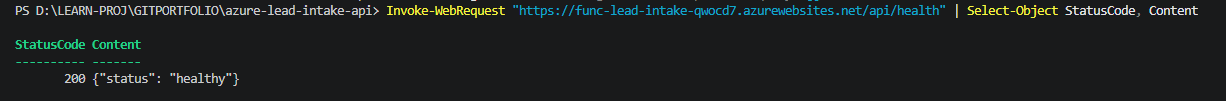
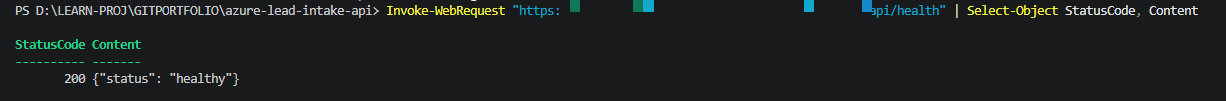
chore: finalize Azure lead intake API portfolio

Changed region(s): [[0.4649, 0.0, 0.7129, 0.1485]]

diff --git a/app/keyvault_secrets.py b/app/keyvault_secrets.py
@@ -7,10 +7,10 @@ from azure.keyvault.secrets import SecretClient
 
 @lru_cache(maxsize=1)
 def get_secret_client() -> SecretClient:
-    vault_url = os.getenv("KEY_VAULT_URL")
+    vault_url = os.getenv("KEY_VAULT_URI")
 
     if not vault_url:
-        raise RuntimeError("KEY_VAULT_URL is not configured.")
+        raise RuntimeError("KEY_VAULT_URI is not configured.")
 
     client_id = os.getenv("AZURE_CLIENT_ID")
 

diff --git a/README.md b/README.md
@@ -1,0 +1,339 @@
+# Azure Lead-Intake API
+
+A small serverless API on Azure that accepts sales leads from authenticated callers, stores them, and forwards them to HubSpot and Slack. The application infrastructure is defined in Terraform and checked by GitHub Actions.
+
+[![CI](https://github.com/tvero1011/azure-lead-intake-api/actions/workflows/ci.yml/badge.svg)](https://github.com/tvero1011/azure-lead-intake-api/actions/workflows/ci.yml)
+[![CodeQL](https://github.com/tvero1011/azure-lead-intake-api/actions/workflows/codeql.yml/badge.svg)](https://github.com/tvero1011/azure-lead-intake-api/actions/workflows/codeql.yml)
+
+> **Status:** portfolio project built to learn and demonstrate Azure security and DevOps practices. It uses sample data only and is not a production system. Application resources are destroyed between sessions to keep cost near $0.
+
+**Stack:** Python 3.11 · Azure Functions (Flex Consumption) · Table Storage · Key Vault · Entra ID · Application Insights · Terraform · GitHub Actions (OIDC) · Pydantic · pytest
+
+## Contents
+
+[What this project demonstrates](#what-this-project-demonstrates) ·
+[Architecture](#architecture) ·
+[API](#api) ·
+[Security design](#security-design) ·
+[Proof it works](#proof-it-works) ·
+[Infrastructure](#infrastructure-terraform) ·
+[CI/CD](#cicd) ·
+[Monitoring](#monitoring) ·
+[Evidence](#evidence) ·
+[Testing](#testing) ·
+[Cost](#cost) ·
+[Try it](#try-it) ·
+[Configuration](#configuration) ·
+[Deploy](#deploy) ·
+[Design decisions](#design-decisions) ·
+[Known limitations](#known-limitations-and-next-steps) ·
+[What I learned](#what-i-learned)
+
+## What this project demonstrates
+
+- **Identity-first security:** callers authenticate with Microsoft Entra ID, the Function reaches Azure services with a managed identity, and GitHub deploys with OIDC. No API keys, storage keys, or stored Azure passwords.
+- **Infrastructure as code:** Azure Functions (Flex Consumption), Storage, Key Vault, Application Insights, alerts, RBAC and policy guardrails, all in Terraform. A few pieces are manual on purpose (see [What is not in Terraform](#what-is-not-in-terraform)).
+- **CI/CD with guardrails:** pull requests never log in to Azure. Deployment is a manual workflow behind a protected `production` environment that needs a reviewer.
+- **Honest engineering:** a CodeQL finding was fixed rather than dismissed, and the known gaps are listed at the end of this README.
+
+## Architecture
+
+```mermaid
+flowchart TD
+    Client["API client"] -->|"1. request token"| Entra["Microsoft Entra ID"]
+    Entra -->|"2. token with Lead.Write role"| Client
+    Client -->|"3. POST /api/leads + Bearer token"| Func["Azure Function<br/>Easy Auth + role check"]
+    Func --> Val["Pydantic validation"]
+    Val --> Table["Azure Table Storage"]
+    Func -->|"managed identity"| KV["Key Vault"]
+    Func -->|"token from Key Vault"| HubSpot["HubSpot"]
+    Func -->|"webhook from Key Vault"| Slack["Slack"]
+    Func --> AI["Application Insights"]
+    GH["GitHub Actions"] -->|"OIDC, no secret"| Azure["Azure + Terraform"]
+```
+
+### Request flow
+
+1. The caller gets an access token from Entra ID (client credentials flow) for the API.
+2. The caller sends `POST /api/leads` with the token.
+3. **Easy Auth** validates the token. A missing or invalid token gets `401` before any code runs.
+4. The application checks that the token carries the `Lead.Write` role. Without it, `403`.
+5. Pydantic validates the payload. Bad input gets `422` with a field-level message.
+6. The lead is saved to Table Storage. If saving fails, the API returns `503` and does not call any external service.
+7. For a **new** lead, a Slack notification is sent. HubSpot gets an upsert by email.
+8. The sync result is recorded on the lead as `crm_status` (`pending`, `synced` or `failed`). A downstream failure never loses the lead.
+
+## API
+
+| Method | Path | Auth | Purpose |
+|---|---|---|---|
+| GET | `/api/health` | None (excluded from Easy Auth) | Health check |
+| POST | `/api/leads` | Entra token with `Lead.Write` role | Submit a lead |
+
+Example request body:
+
+```json
+{
+  "name": "Jane Smith",
+  "email": "jane@example.com",
+  "message": "Interested in your services."
+}
+```
+
+Validation rules: `name` 2 to 100 characters, `email` a valid address up to 254 characters (stored in lower case), `message` 5 to 2000 characters. Extra spaces are trimmed.
+
+| Status | Meaning | How it is verified |
+|---|---|---|
+| 200 | Health check OK, or lead accepted (`"status": "accepted"`) | Live, screenshots 04, 05, 14 |
+| 401 | Missing or invalid token | Live, screenshot 15 |
+| 403 | Valid token without the `Lead.Write` role | Automated tests (`tests/test_auth.py`) |
+| 422 | Invalid payload, for example missing email | Live, screenshot 17 |
+| 503 | Lead could not be saved | By design (see `app/function_app.py`), not covered by a test yet |
+
+Validation response for a missing email:
+
+```json
+{
+  "error": "Lead validation failed.",
+  "details": [{ "field": "email", "message": "Field required" }]
+}
+```
+
+Leads use `PartitionKey = leads` and `RowKey = email`, so sending the same email again updates the name and message instead of creating a duplicate. Saving does not reset `crm_status` to `pending`. After the update, the HubSpot sync for that request writes a fresh `crm_status` (`synced` or `failed`).
+
+## Security design
+
+| Control | How it is done |
+|---|---|
+| Caller authentication | Entra ID through App Service authentication (Easy Auth), unauthenticated requests get `401` |
+| Caller authorization | The API app defines a `Lead.Write` app role. The code checks the role claim and returns `403` without it |
+| No storage keys | Storage account has shared key access disabled. The Function uses its managed identity for Table and Blob access |
+| Secrets | HubSpot token and Slack webhook live in Key Vault (RBAC mode). They are set by hand with `az keyvault secret set`, never through Terraform, so they never enter state |
+| Least-privilege roles | The Function identity has Key Vault Secrets User, Storage Table Data Contributor, and narrowly scoped storage and monitoring roles |
+| Pipeline login | GitHub Actions uses OIDC with a federated credential tied to the `production` environment. No Azure password is stored in GitHub |
+| Pull requests | CI runs on pull requests but has no Azure login step and uses no deployment credentials |
+| Safe logging | Structured JSON logs with a correlation ID. Only the email *domain* is logged, never the full address or any secret |
+| Scanning | Gitleaks pre-commit hook (also run in CI), CodeQL, and Dependabot for Actions, pip and Terraform |
+| Guardrails | Azure Policy on the application resource group: allowed locations and a required `project` tag |
+
+## Proof it works
+
+A lead sent with an Entra token reaches HubSpot and Slack, and a request without a token is rejected. All 17 screenshots are listed in [Evidence](#evidence).
+
+<table>
+  <tr>
+    <td><img src="docs/proof/12-hubspot-lead-contact-synced.png" alt="HubSpot contact created from a lead" width="300"></td>
+    <td><img src="docs/proof/13-slack-new-lead-notification.png" alt="Slack notification for a new lead" width="300"></td>
+    <td><img src="docs/proof/15-unauthenticated-request-rejected.png" alt="Request without a token returns 401" width="300"></td>
+  </tr>
+  <tr>
+    <td align="center">HubSpot contact created</td>
+    <td align="center">Slack notification</td>
+    <td align="center">No token, HTTP 401</td>
+  </tr>
+</table>
+
+## Infrastructure (Terraform)
+
+There are two Terraform configurations so the state backend never depends on the resources it manages:
+
+| Folder | Purpose |
+|---|---|
+| `bootstrap/` | Resource groups and Azure Policy assignments (allowed locations, required tag) |
+| `infra/` | Application resources, using a remote `azurerm` backend with Entra ID authentication |
+
+The remote state storage account was created manually in the portal. I removed storage provisioning from the bootstrap on purpose so that no storage credentials pass through Terraform.
+
+Main resources in `infra/`:
+
+| Resource | Notes |
+|---|---|
+| Azure Functions, Flex Consumption (FC1) | Python 3.11, scale limited to 1 instance, no always-ready instances configured |
+| Storage account | Standard LRS, TLS 1.2, no public blobs, shared key access disabled, `Leads` table, private deployment container |
+| User-assigned managed identity | Used for storage, Key Vault and Application Insights access |
+| Key Vault | Standard tier, RBAC authorization, purge protection off so the environment can be destroyed and recreated |
+| Log Analytics + Application Insights | 30 day retention, telemetry sent with managed identity authentication |
+| Monitoring | Email action group, failed-requests metric alert, Activity Log alerts for Key Vault deletion and role assignment changes, and a simple portal dashboard (one text tile that points to the saved queries, no charts yet) |
+
+### What is not in Terraform
+
+These parts are manual on purpose or not automated yet:
+
+- the Terraform state storage account and its `tfstate` container
+- the Entra ID app registrations (API app, caller app, pipeline app) and the pipeline's role assignments
+- the Key Vault secrets (`hubspot-access-token`, `slack-webhook-url`)
+- the subscription budget
+- publishing the Function code
+
+## CI/CD
+
+| Workflow | Trigger | What it does |
+|---|---|---|
+| `ci.yml` | Push and pull request to `main` | Python tests, secret scanning (pre-commit with Gitleaks), `terraform fmt -check` and `validate` for both configurations with `-backend=false`. No Azure access |
+| `codeql.yml` | Push, pull request, weekly | CodeQL analysis for Python |
+| `deploy.yml` | Manual (`workflow_dispatch`) | Choose `verify`, `apply` or `destroy`. Logs in with OIDC and runs inside the `production` environment, which requires a reviewer. `apply` saves a plan file and applies that same plan |
+| `smoke-test.yml` | Daily and manual | Calls the health endpoint and checks for `"status": "healthy"` |
+
+Pull requests never receive Azure access. Only a manually started run that is approved on the `production` environment can change infrastructure. The Azure federated credential is tied to that environment, so no other workflow run can log in.
+
+## Monitoring
+
+Application Insights collects telemetry and Terraform defines the alerts and a simple dashboard. Four saved KQL queries are in `queries/`: `failed-requests`, `failed-dependencies`, `exceptions` and `request-performance`.
+
+The alerts are defined in code. I have not yet captured a test showing an alert email arriving, and there is no screenshot of the deployed alerts, action group or dashboard.
+
+## Evidence
+
+Screenshots are in [`docs/proof`](docs/proof). They come from a personal sandbox subscription with sample data. Environment-specific names, hostnames and personal details are blurred. Application resources get a random name suffix, so screenshots from different sessions show different hostnames.
+
+| # | What it shows |
+|---|---|
+| [01](docs/proof/01-terraform-bootstrap-resources.png) | Bootstrap resource group with the state storage account |
+| [02](docs/proof/02-azure-policy-governance.png) | Azure Policy compliance: allowed location and required tag are both compliant. The overall score is lower because of the subscription's default Defender for Cloud initiative, which is not part of this project |
+| [03](docs/proof/03-azure-infrastructure-deployed.png) | Deployed application resources, tagged |
+| [04](docs/proof/04-function-app-health-check.png) | Health check, HTTP 200 |
+| [05](docs/proof/05-entra-id-authenticated-lead-submission.png) | Lead accepted with an Entra token, HTTP 200 |
+| [06](docs/proof/06-azure-table-storage-lead-record.png) | Lead record in Table Storage |
+| [07](docs/proof/07-cost-management-budget.png) | $5 budget with an email alert at $1, spend $0.00 |
+| [08](docs/proof/08-github-actions-ci-passed.png) | CI passed: tests, secret scanning, Terraform validation |
+| [09](docs/proof/09-github-azure-oidc-deployment.png) | Deploy workflow (`verify` run) logging in to Azure with OIDC |
+| [10](docs/proof/10-github-production-environment.png) | `production` environment with required reviewer |
+| [11](docs/proof/11-codeql-sensitive-logging-alert-fixed.png) | CodeQL logging finding, marked fixed |
+| [12](docs/proof/12-hubspot-lead-contact-synced.png) | HubSpot contact created |
+| [13](docs/proof/13-slack-new-lead-notification.png) | Slack notification received |
+| [14](docs/proof/14-function-health-http-200.png) | Health endpoint returns `healthy` |
+| [15](docs/proof/15-unauthenticated-request-rejected.png) | Request without a token, HTTP 401 |
+| [16](docs/proof/16-azure-table-lead-synced.png) | Lead stored with `crm_status = synced` |
+| [17](docs/proof/17-api-validation-missing-email-422.png) | Missing email, HTTP 422 |
+
+## Testing
+
+There are 26 automated tests in `tests/`, run with `python -m pytest`:
+
+| File | Area |
+|---|---|
+| `test_auth.py` | Role and principal handling (401 and 403 paths) |
+| `test_function_app.py` | Request handling |
+| `test_integrations.py` | HubSpot and Slack behavior |
+| `test_models.py` | Payload validation and normalization |
+| `test_storage.py` | Table Storage create and update behavior |
+
+The tests use mocks, so they do not call Azure, HubSpot or Slack.
+
+## Cost
+
+- Flex Consumption with scale limited to one instance, Standard LRS storage and Standard Key Vault.
+- A subscription budget of $5 (created manually in the portal) with an email alert at 20% ($1) of actual spend. It sends alerts only and does not stop spending.
+- Resources carry a `project` tag so cost can be filtered in Cost Management.
+- Application resources are destroyed after testing sessions.
+
+## Try it
+
+**Run the tests locally**
+
+```bash
+python -m venv .venv
+# Windows: .venv\Scripts\Activate.ps1      macOS/Linux: source .venv/bin/activate
+pip install -r app/requirements.txt
+python -m pytest
+```
+
+**Call the deployed API** (use your own values, never commit them):
+
+```powershell
+$token = (Invoke-RestMethod -Method Post `
+  -Uri "https://login.microsoftonline.com/<TENANT_ID>/oauth2/v2.0/token" `
+  -Body @{
+    grant_type    = "client_credentials"
+    client_id     = "<CALLER_APP_CLIENT_ID>"
+    client_secret = "<CALLER_APP_SECRET>"
+    scope         = "api://<API_APP_CLIENT_ID>/.default"
+  }).access_token
+
+Invoke-RestMethod -Method Post -Uri "https://<FUNCTION_HOST>/api/leads" `
+  -Headers @{ Authorization = "Bearer $token" } `
+  -ContentType "application/json" `
+  -Body '{"name":"Jane Smith","email":"jane@example.com","message":"Hello there"}'
+```
+
+## Configuration
+
+The Function reads these settings. In Azure, Terraform sets them as app settings. Real values are never committed: `local.settings.json` and `.env` files are in `.gitignore`.
+
+| Setting | Purpose |
+|---|---|
+| `DOWNSTREAM_ENABLED` | Turns HubSpot and Slack on or off. Defaults to `false` when not set, and Terraform sets it to `true` in Azure |
+| `LEADS_TABLE_ENDPOINT` | Table Storage endpoint used in Azure |
+| `LEADS_TABLE_NAME` | Table name. Defaults to `Leads` |
+| `KEY_VAULT_URI` | Where the Function finds its secrets |
+| `AZURE_CLIENT_ID` | Which user-assigned managed identity to use |
+| `AZURITE_CONNECTION_STRING` | Local development only. Points the app at the Azurite storage emulator instead of Azure |
+| `HUBSPOT_ACCESS_TOKEN`, `SLACK_WEBHOOK_URL` | Local development only. In Azure these come from Key Vault (`hubspot-access-token`, `slack-webhook-url`) |
+
+## Deploy
+
+1. Create the Terraform state storage account and a `tfstate` container manually, then point `infra/backend.tf` at them.
+2. Apply `bootstrap/` to create the resource groups and policy assignments.
+3. In Entra ID, register an **API app** with a `Lead.Write` app role, a **caller app** granted that role, and a **pipeline app** with a federated credential for the repository's `production` environment. Put your own tenant and API app client ID in the `auth_settings_v2` block in `infra/main.tf`.
+4. Give the pipeline identity access it needs: Contributor and Role Based Access Control Administrator on the application resource group, and Storage Blob Data Contributor on the state container.
+5. In GitHub, create the `production` environment with a required reviewer, and set the repository variables `AZURE_CLIENT_ID`, `AZURE_TENANT_ID`, `AZURE_SUBSCRIPTION_ID`, `ALERT_EMAIL` and `API_HEALTH_URL`.
+6. Run the **Azure Infrastructure Deployment** workflow with `apply` and approve it.
+7. Store the integration secrets in Key Vault: `hubspot-access-token` and `slack-webhook-url`.
+8. Publish the Function code (not automated yet, see below).
+9. Run the health check, then test with a token.
+10. Run the workflow with `destroy` when finished.
+
+## Design decisions
+
+- **Easy Auth plus a role check in code.** The platform proves *who* is calling (`401`). The code decides whether they are *allowed* (`403`).
+- **Managed identity everywhere.** There are no connection strings or keys to rotate or leak.
+- **Secrets outside Terraform.** A secret that Terraform knows is written to state in plaintext. Setting secrets by hand keeps them out of state.
+- **No pull request `terraform plan`.** On an earlier AWS project, a "read-only" plan role for pull requests ended up able to read state and a secret. Here, pull requests do not log in to Azure at all. A plan job could return later with a dedicated read-only identity.
+- **Separate bootstrap.** The state backend and guardrails survive destroying the application.
+- **Table Storage.** Leads are looked up by key and do not need relational queries.
+- **Persist first.** The lead is saved before any external call, so HubSpot or Slack outages cannot lose data.
+
+## Known limitations and next steps
+
+- The `production` environment has *Prevent self-review* off and a single reviewer, so I approve my own deployments. A second reviewer would fix this.
+- `deploy.yml` does not restrict which branch it runs from. The `production` environment should be limited to the `main` branch (deployment branch rule), or the job should check the branch.
+- Function code publishing, Key Vault secret provisioning, the budget and the Entra app registrations are manual, not part of the pipeline.
+- The tenant ID, the API app client ID and the subscription ID are written directly in the Terraform files. They are identifiers, not secrets, but they should become variables.
+- The Function identity has Storage Blob Data Owner on the storage account for host storage. This is broader than ideal and should be narrowed after checking the current Flex Consumption requirements.
+- Log Analytics has no daily data cap yet.
+- HubSpot and Slack calls are synchronous with no retry queue. A Storage Queue would make this more resilient.
+- The caller app authenticates with a client secret. A certificate, or a managed identity for callers running in Azure, would be stronger.
+- One environment only, public network access, and no private endpoints.
+- Terraform CI validates and formats but does not run a policy or security scanner such as Checkov or Trivy.
+- The tests do not yet cover the `503` path, the "no Slack for repeat leads" rule, or the `crm_status` update after a sync.
+- Alert emails, the deployed alerts and dashboard, a full destroy-and-redeploy through the pipeline, and a live `403` test have not been demonstrated yet.
+- The dashboard is a single text tile. Charts would make it more useful.
+- The daily smoke test reports a failure whenever the infrastructure is destroyed.
+
+## What I learned
+
+- Authentication and authorization are different steps: Easy Auth answers *who are you*, the application role answers *what may you do*.
+- OIDC trust is only as safe as its subject condition, so the federated credential is tied to the `production` environment and pull requests never match it.
+- Anything Terraform handles can end up in state, which changes how secrets and plan jobs should be designed.
+- Static analysis finds real issues. CodeQL flagged a logging statement, and fixing it was better than dismissing it.
+- Cost control is a design choice: scale limits, cheap tiers, budgets, tags, and destroying what is not in use.
+
+## Repository layout
+
+```text
+app/          Function code (auth, models, storage, integrations, Key Vault, logging)
+tests/        Automated tests
+infra/        Application Terraform, monitoring and dashboard
+bootstrap/    Resource groups and Azure Policy guardrails
+queries/      Saved KQL queries
+docs/proof/   Evidence screenshots
+.github/      CI, CodeQL, deploy, smoke test and Dependabot configuration
+```
+
+## License
+
+MIT, see [LICENSE](LICENSE).
+
+## Author
+
+Built by [tvero1011](https://github.com/tvero1011) as a cloud and DevOps portfolio project.
